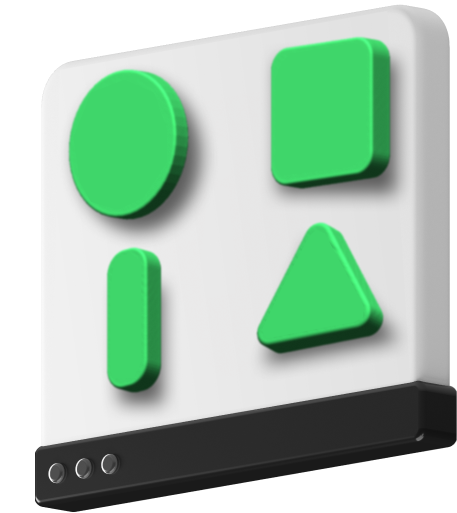
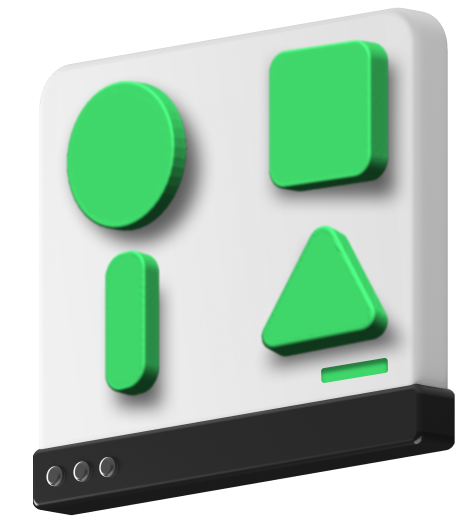
com16.5

diff --git a/assets/styles/stands.css b/assets/styles/stands.css
@@ -36,6 +36,63 @@
     transform: translateX(-100px);
 }
 
+.img__swap_stand
+{
+    display: block;
+    width: 455px;
+    height: 521px;
+    transform: scale(0.6);
+    background-image: url(../imges/stand1.png);
+    background-repeat:no-repeat;
+background-position: center center;
+
+    animation: standap 10s infinite;
+
+    opacity: 1;
+}
+
+@keyframes standap {
+    0%{
+        background-image: url(../imges/stand1.png);
+    }
+    15%{
+        background-image: url(../imges/stand1.png);
+    }
+    20%{
+        background-image: url(../imges/stand0.png);
+    }
+    25%{
+        background-image: url(../imges/stand2.png);
+    }
+    40%{
+        background-image: url(../imges/stand2.png);
+    }
+    45%{
+        background-image: url(../imges/stand0.png);
+    }
+    50%{
+        background-image: url(../imges/stand3.png);
+    }
+    65%{
+        background-image: url(../imges/stand3.png);
+    }
+    70%{
+        background-image: url(../imges/stand0.png);
+    }
+    75%{
+        background-image: url(../imges/stand4.png);
+    }
+    90%{
+        background-image: url(../imges/stand4.png);
+    }
+    95%{
+        background-image: url(../imges/stand0.png);
+    }
+    100%{
+        background-image: url(../imges/stand1.png);
+    }
+}
+
 .content__stands_shop
 {
     margin: 0 auto;

diff --git a/stands.html b/stands.html
@@ -91,7 +91,7 @@
                     Стенды сделаны из качественных материалов и прослужат вам долгое время.</p>   
                 <p><span>Н</span>а нашем канале можно посмотреть <a href="https://rutube.ru/channel/26784998/">обзоры</a></p>
             </div> 
-            <img src="assets/imges/stand1.png" alt="">          
+            <div class="img__swap_stand"></div>         
         </div>
         <div class="line"></div>
         <div class="content__stands_shop">
